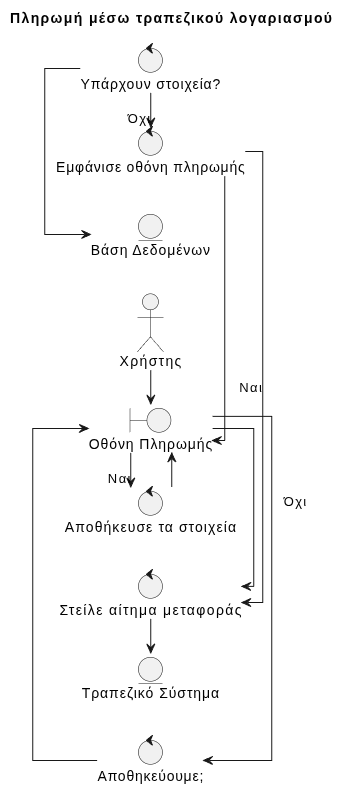
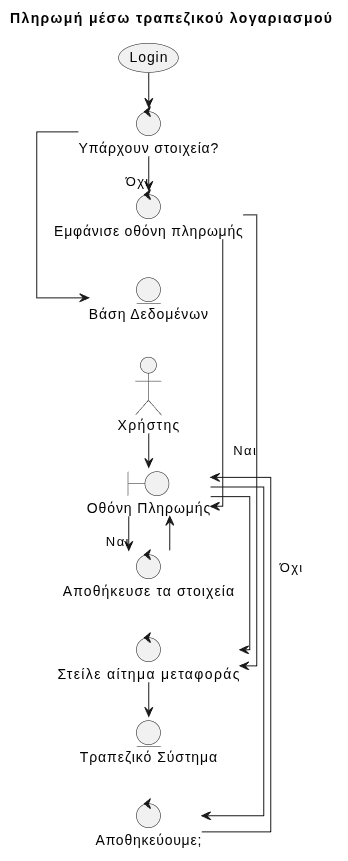
Modified the payment through bank account use case and robustness so that we know when it happens

diff --git a/Paradoteo_3/UseCases/Use-Cases-v0.4.md b/Paradoteo_3/UseCases/Use-Cases-v0.4.md
@@ -391,21 +391,22 @@ UC_Moderation ..> UC_Notifications : <<include>>
 8.α.3 Επιστροφή στη Βασική Ροή στο βήμα 6
 
 # Βασική Ροή "Πληρωμή Μέσω Τραπεζικού Λογαριασμού"
-1. Το σύστημα ελέγχει αν έχει ήδη αποθηκεύσει τα τραπεζικά στοιχεία του Χρήστη στη βάση δεδομένων
-2. Το σύστημα διαπιστώνει ότι δεν έχει αποθηκευμένα τα τραπεζικά στοιχεία του Χρήστη και εμφανίζει στον Χρήστη την οθόνη πληρωμής
-3. Ο Χρήστης εισάγει τα τραπεζικά του στοιχεία στην οθόνη πληρωμής
-4. Το σύστημα ρωτάει τον Χρήστη στην οθόνη πληρωμής αν θέλει να αποθηκευτούν τα τραπεζικά του στοιχεία
-5. Ο Χρήστης επιλέγει να μην αποθηκευτούν τα τραπεζικά του στοιχεία
-6. Το σύστημα στέλνει στο Τραπεζικό Σύστημα του Χρήστη αίτημα μεταφοράς χρημάτων με τα στοιχεία του Χρήστη
-7. Το Τραπεζικό Σύστημα κάνει μεταφορά του χρηματικού ποσού από τον τραπεζικό λογαριασμο του Χρήστη στον τραπεζικό λογαριασμό της εταιρείας μας
+1. Εκτέλεση βασικής ροής "Login"
+2. Το σύστημα ελέγχει αν έχει ήδη αποθηκεύσει τα τραπεζικά στοιχεία του Χρήστη στη βάση δεδομένων
+3. Το σύστημα διαπιστώνει ότι δεν έχει αποθηκευμένα τα τραπεζικά στοιχεία του Χρήστη και εμφανίζει στον Χρήστη την οθόνη πληρωμής
+4. Ο Χρήστης εισάγει τα τραπεζικά του στοιχεία στην οθόνη πληρωμής
+5. Το σύστημα ρωτάει τον Χρήστη στην οθόνη πληρωμής αν θέλει να αποθηκευτούν τα τραπεζικά του στοιχεία
+6. Ο Χρήστης επιλέγει να μην αποθηκευτούν τα τραπεζικά του στοιχεία
+7. Το σύστημα στέλνει στο Τραπεζικό Σύστημα του Χρήστη αίτημα μεταφοράς χρημάτων με τα στοιχεία του Χρήστη
+8. Το Τραπεζικό Σύστημα κάνει μεταφορά του χρηματικού ποσού από τον τραπεζικό λογαριασμο του Χρήστη στον τραπεζικό λογαριασμό της εταιρείας μας
 
 ## Εναλλακτική Ροή 1
-2.α.1 Το σύστημα διαπιστώνει ότι έχει αποθηκευμένα τα τραπεζικά στοιχεία του Χρήστη και τα αντλεί από τη βάση δεδομένων
-2.α.2 Επιστροφή στη Βασική Ροή στο βήμα 6
+3.α.1 Το σύστημα διαπιστώνει ότι έχει αποθηκευμένα τα τραπεζικά στοιχεία του Χρήστη και τα αντλεί από τη βάση δεδομένων
+3.α.2 Επιστροφή στη Βασική Ροή στο βήμα 7
 
 ## Εναλλακτική Ροή 2
-5.α.1 Ο Χρήστης επιλέγει να αποθηκευτούν τα τραπεζικά του στοιχέια
-5.α.2 Το σύστημα αποθηκεύει τα τραπεζικά στοιχεία του Χρήστη στη βάση δεδομένων
+6.α.1 Ο Χρήστης επιλέγει να αποθηκευτούν τα τραπεζικά του στοιχέια
+6.α.2 Το σύστημα αποθηκεύει τα τραπεζικά στοιχεία του Χρήστη στη βάση δεδομένων
 
 # Βασική Ροή "Ανάρτηση Ανακοινώσεων"
 1. Ο Χρήστης Δημιουργός επιλέγει "Make Announcement" στο μενού πλοήγησης